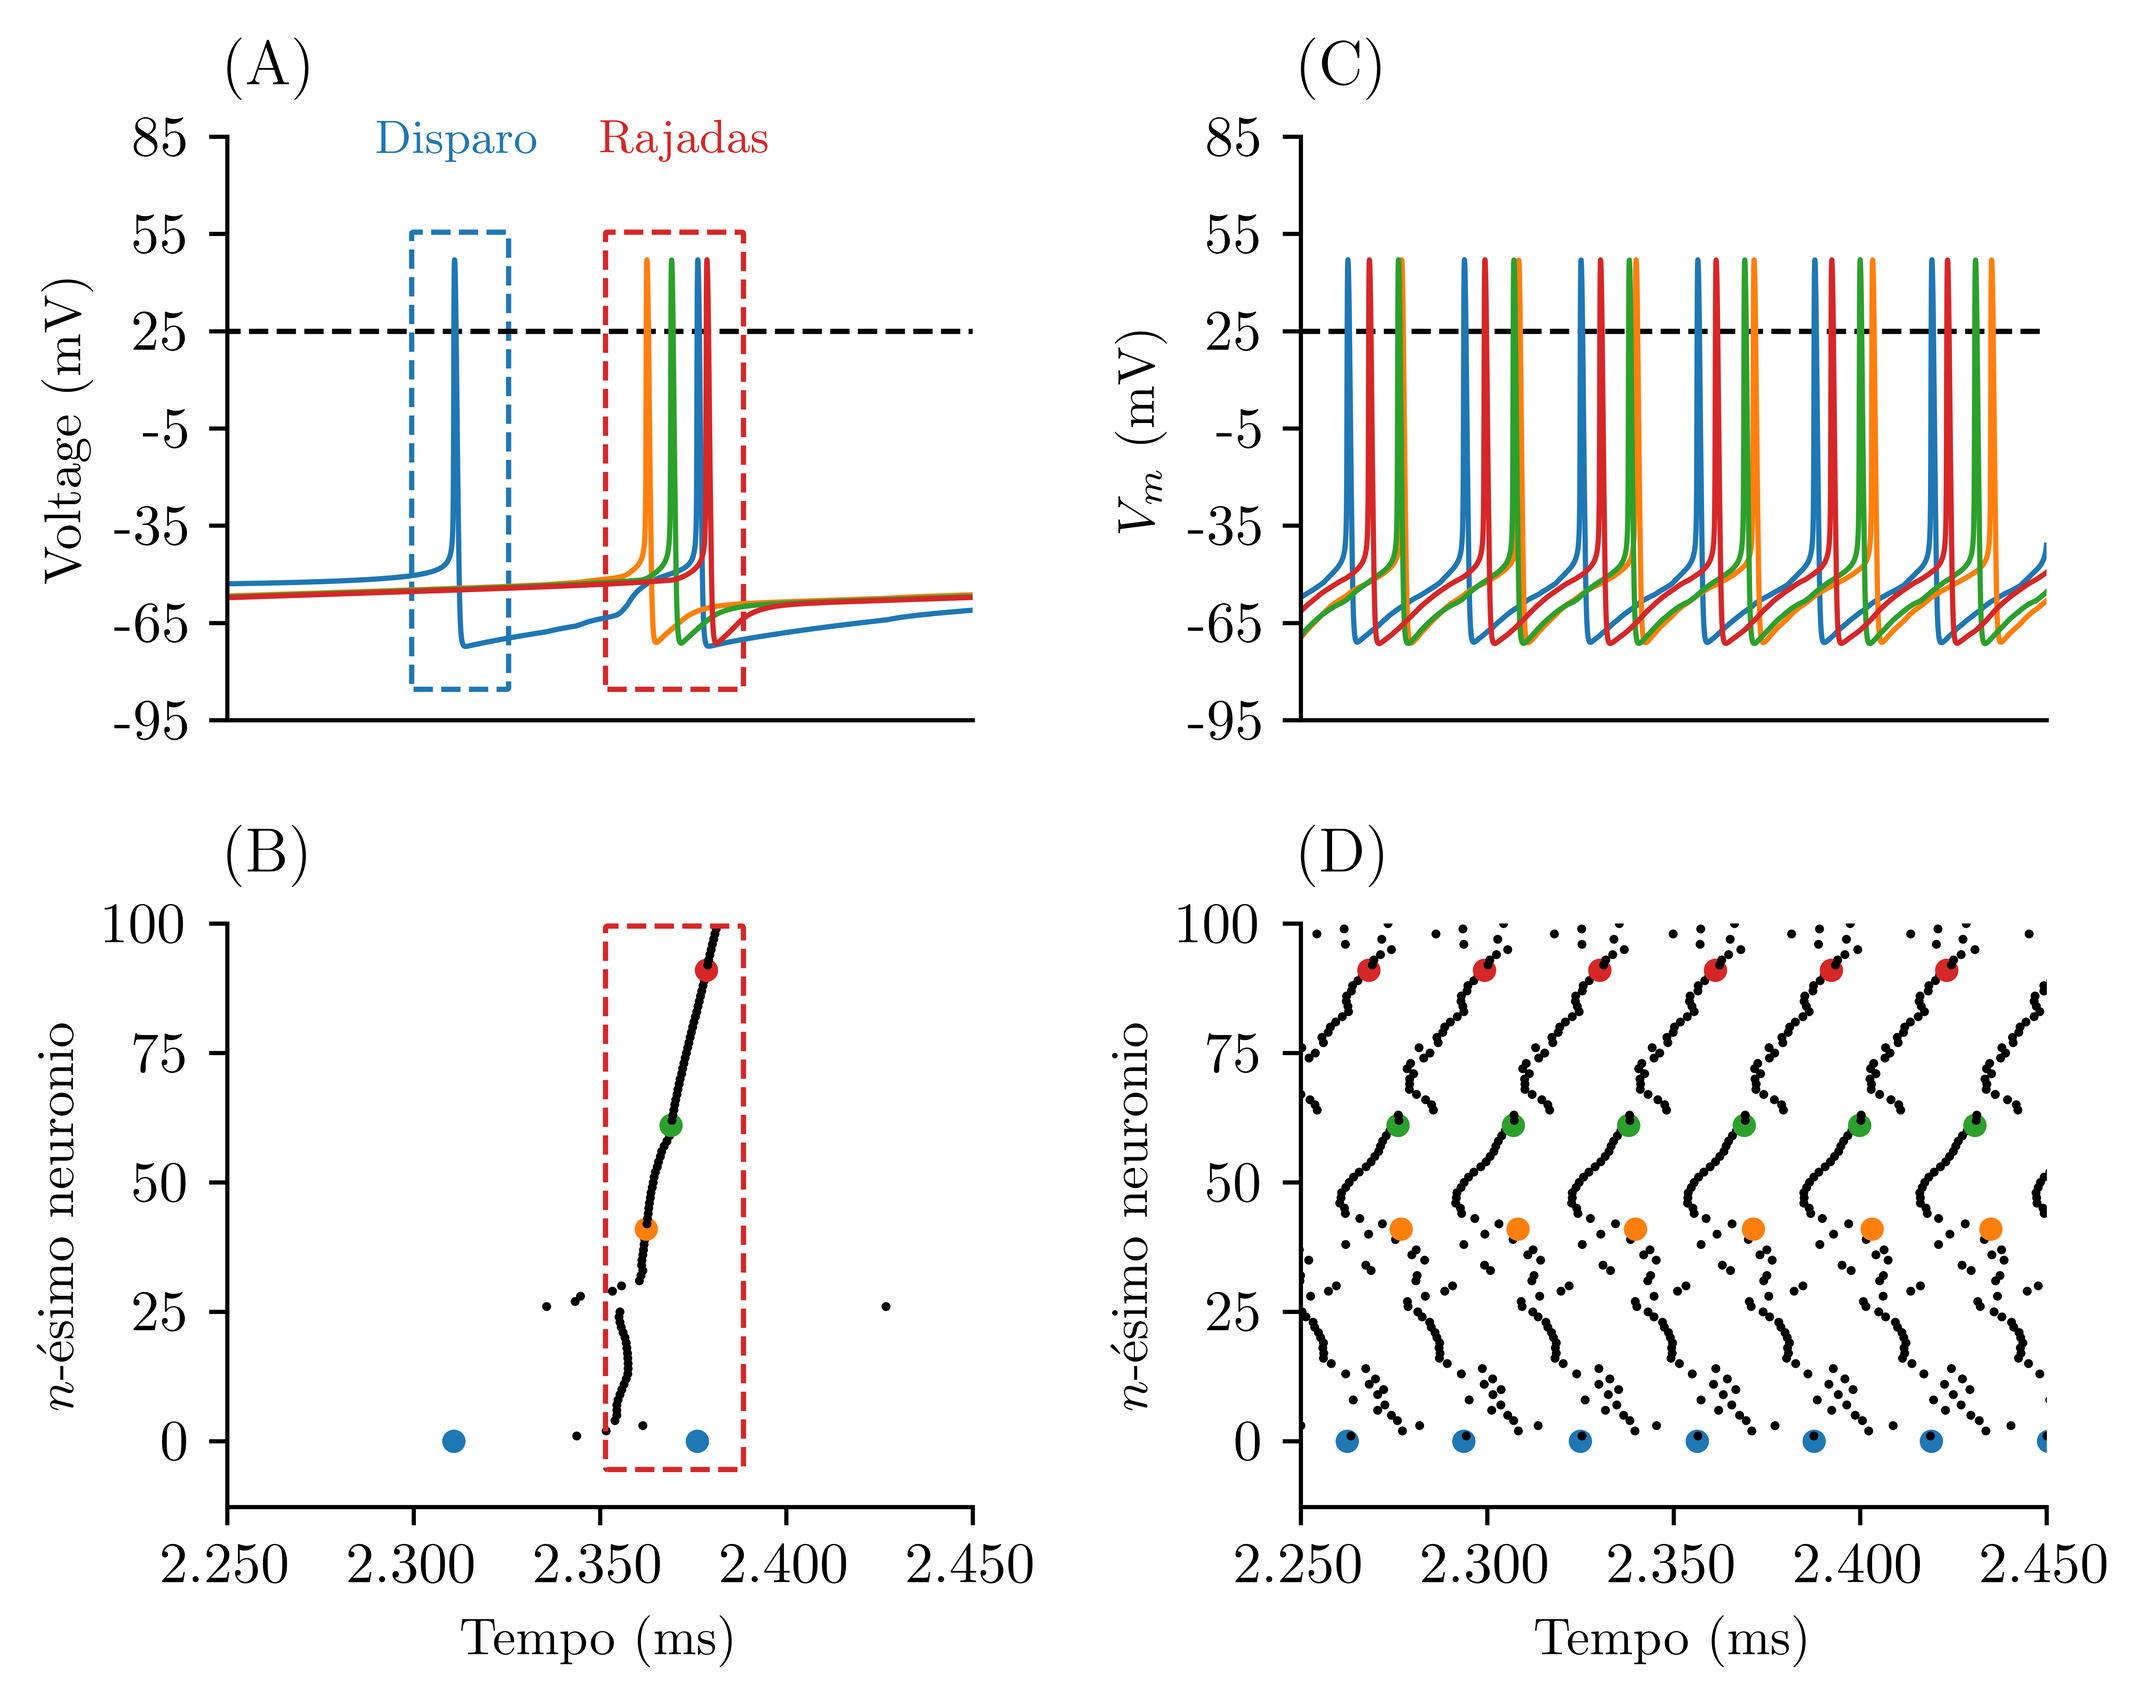
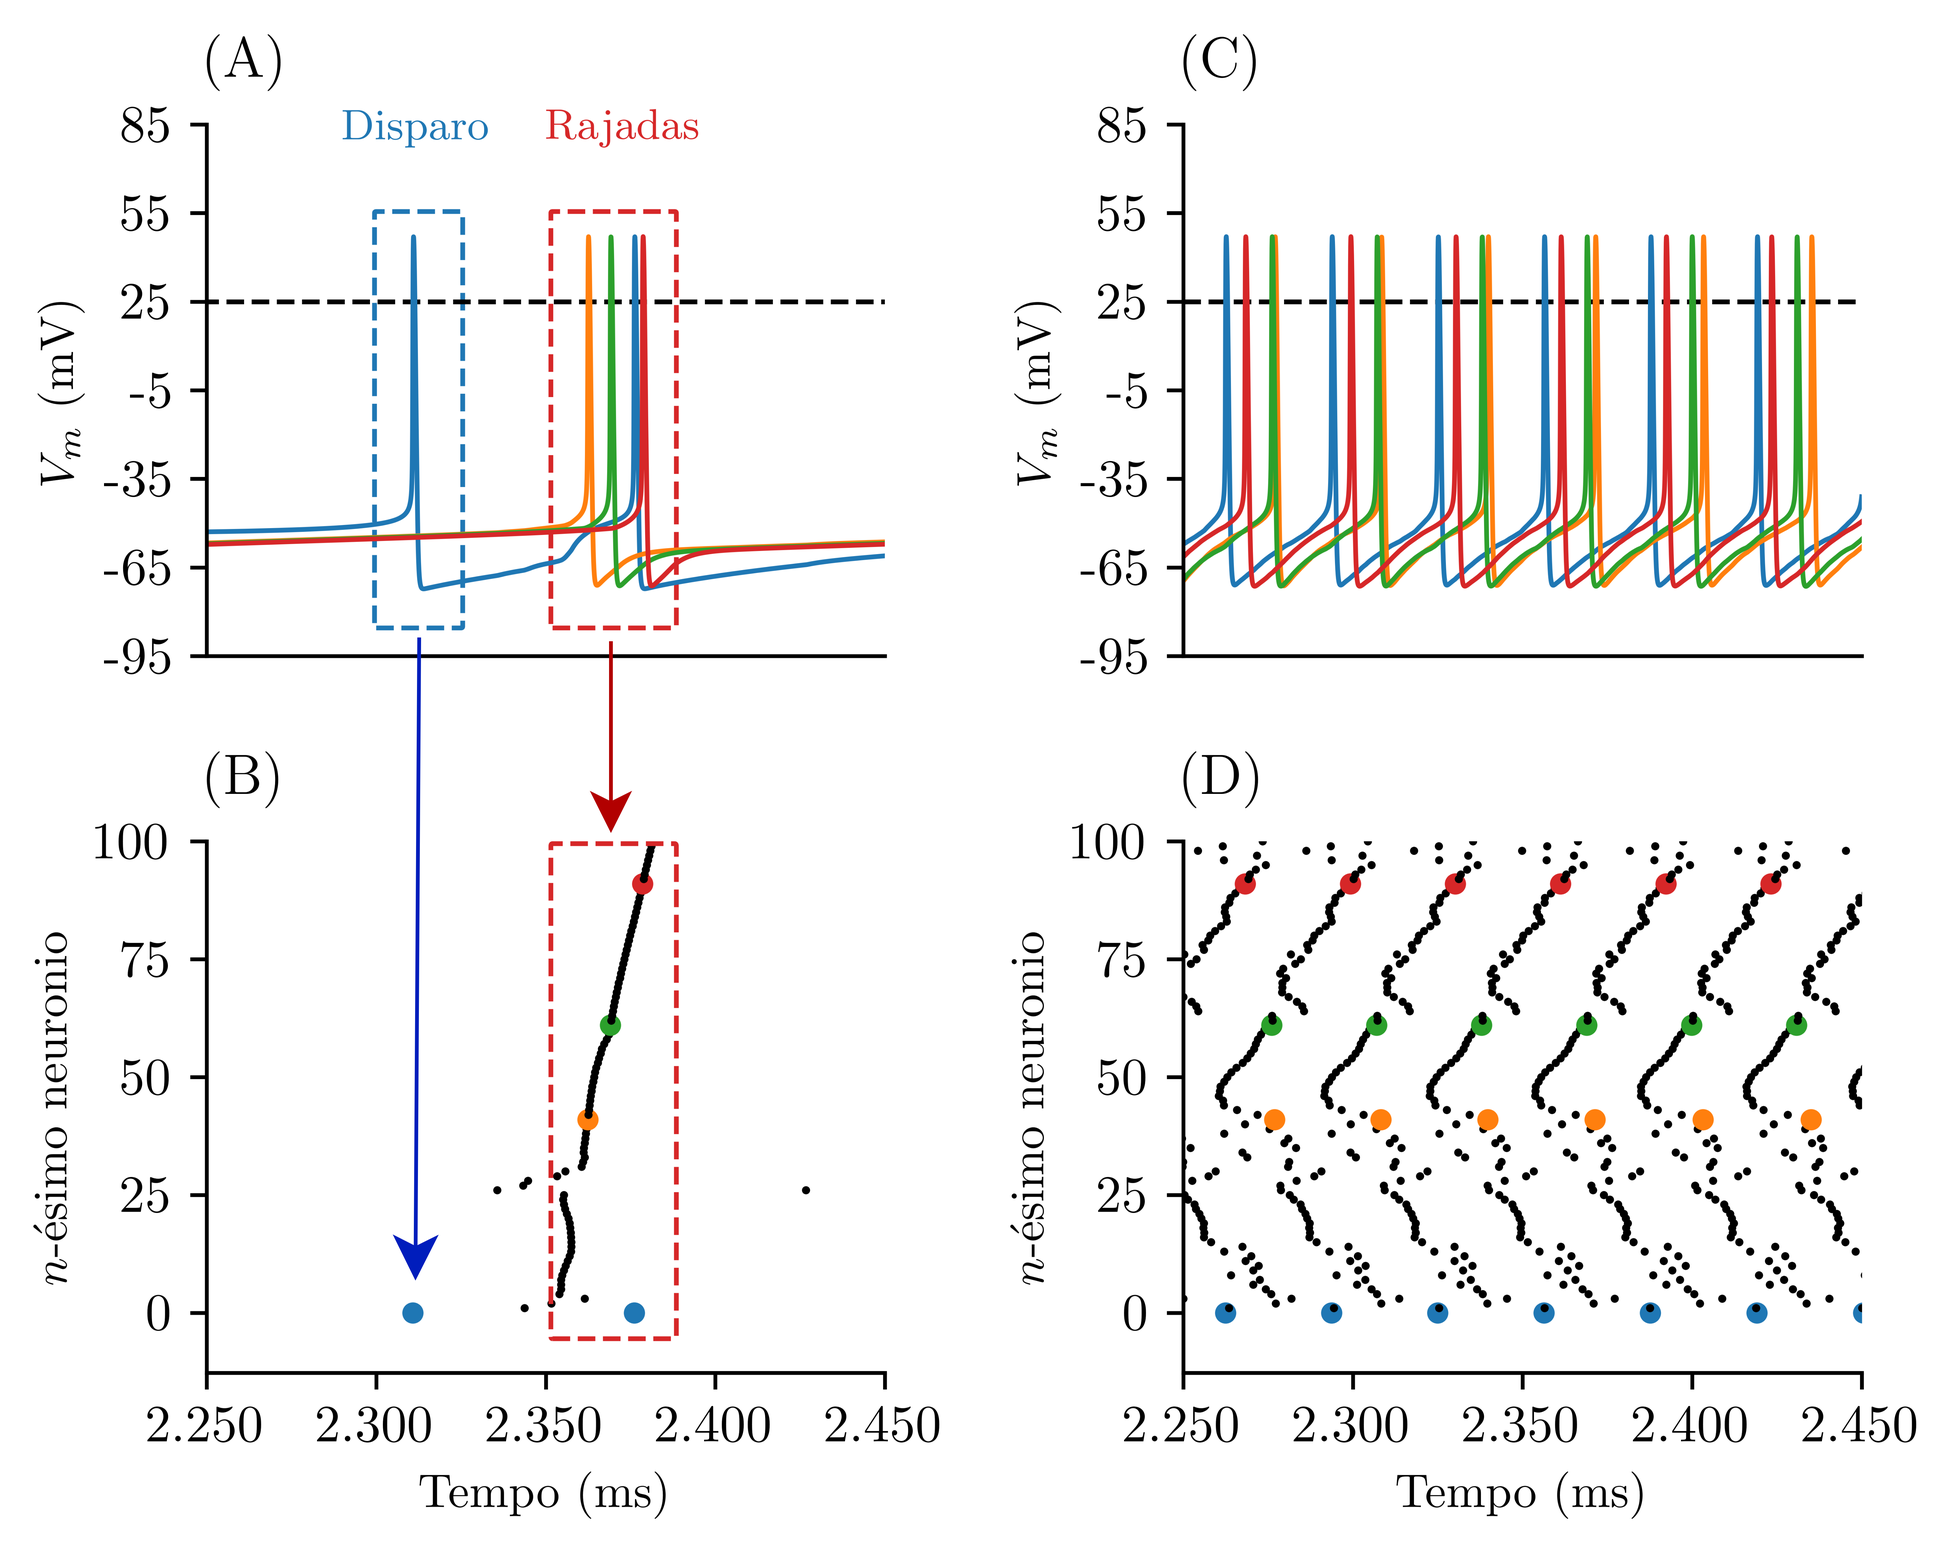
update images

diff --git a/pycodes/plotPotencialRaster.py b/pycodes/plotPotencialRaster.py
@@ -75,7 +75,7 @@ fig.set_tight_layout(20)
 # ax0 = fig.add_subplot(gs[0, 0])
 ax0.set_title('(A)', loc='left', pad=10, fontsize=12)
 ax0.xaxis.set_visible(False)
-ax0.set_ylabel('Voltage (mV)', fontsize=10)
+ax0.set_ylabel('$V_m$ (mV)', fontsize=10)
 ax0.spines['right'].set_visible(False)
 ax0.spines['top'].set_visible(False)
 ax0.hlines(y = 25, xmin=1900, xmax=2500, linestyles='--', colors='black', linewidth=1, label='limiar')
